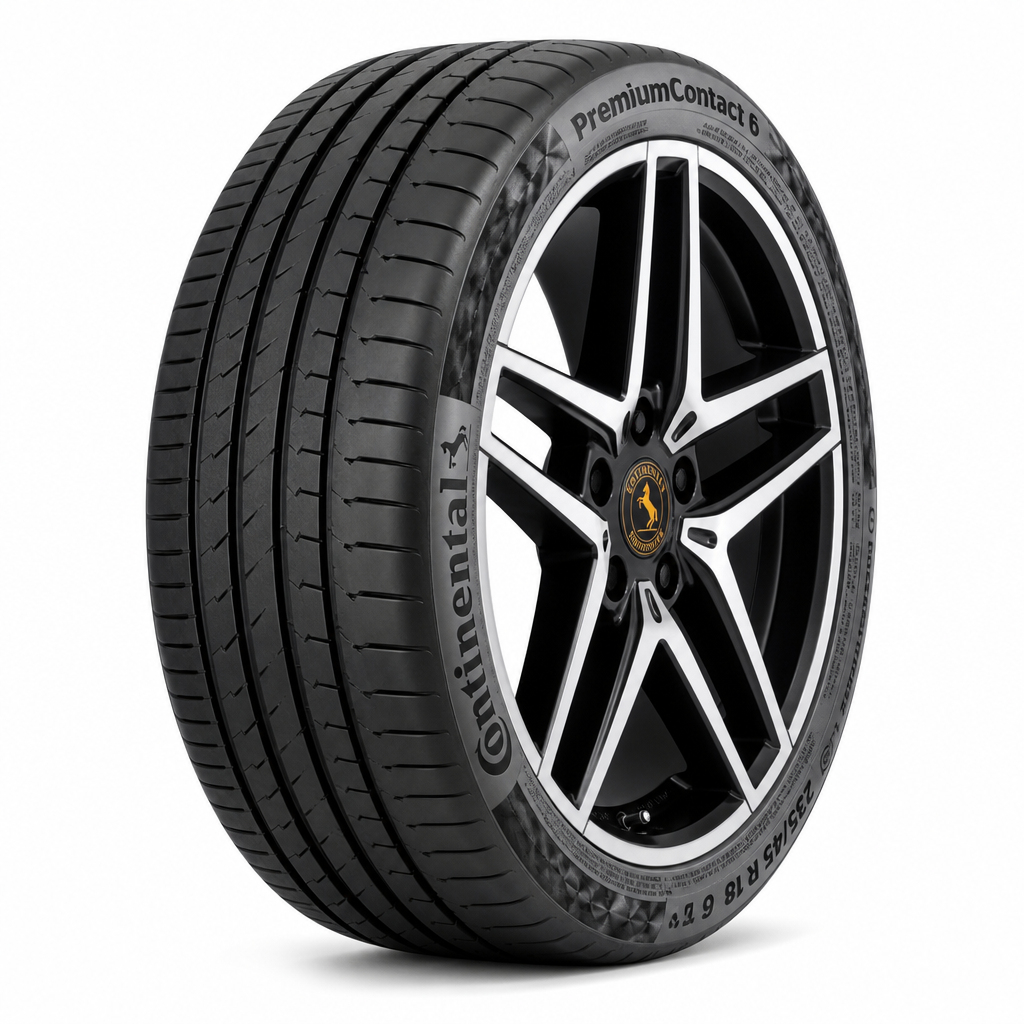
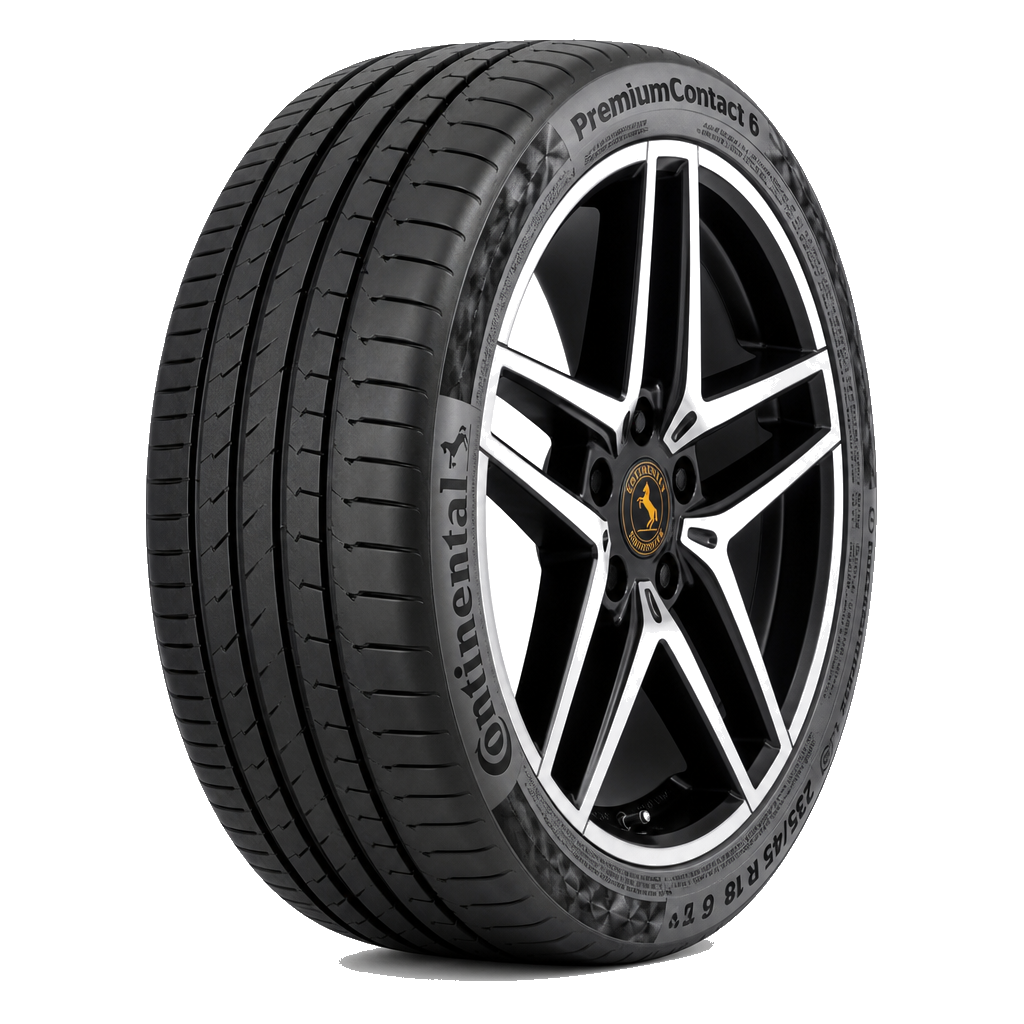
Lastik PNG arka planlarını sil, şeffaf cutout kullan
Beyaz stüdyo arka planı kaldırıldı; 3D sahnede düz şeffaf PNG lastikler kayıyor.

diff --git a/tire3d.js b/tire3d.js
@@ -14,28 +14,20 @@ if (!canvas || window.matchMedia("(prefers-reduced-motion: reduce)").matches) {
   renderer.setClearColor(0x000000, 0);
   renderer.outputColorSpace = THREE.SRGBColorSpace;
   renderer.toneMapping = THREE.ACESFilmicToneMapping;
-  renderer.toneMappingExposure = 1.08;
+  renderer.toneMappingExposure = 1.05;
 
   const scene = new THREE.Scene();
-  scene.fog = new THREE.FogExp2(0x06080f, 0.038);
+  scene.fog = new THREE.FogExp2(0x06080f, 0.034);
 
   const camera = new THREE.PerspectiveCamera(40, 1, 0.1, 80);
-  camera.position.set(0, 1.35, 8.4);
+  camera.position.set(0, 1.5, 8.6);
 
-  scene.add(new THREE.AmbientLight(0xb8c4dc, 0.62));
-  scene.add(new THREE.HemisphereLight(0xd8e4ff, 0x1a1208, 1.1));
+  scene.add(new THREE.AmbientLight(0xc0c8dc, 0.75));
+  scene.add(new THREE.HemisphereLight(0xd8e4ff, 0x1a1208, 0.95));
 
-  const key = new THREE.DirectionalLight(0xffe2b0, 2.15);
-  key.position.set(4, 7, 5);
+  const key = new THREE.DirectionalLight(0xffe2b0, 1.6);
+  key.position.set(3, 6, 4);
   scene.add(key);
-
-  const fill = new THREE.DirectionalLight(0x8eb7ff, 1.05);
-  fill.position.set(-6, 2.5, -1);
-  scene.add(fill);
-
-  const rim = new THREE.PointLight(0xffb020, 1.4, 18);
-  rim.position.set(0, 1.2, 2);
-  scene.add(rim);
 
   const loader = new THREE.TextureLoader();
   const loadTex = (url) =>
@@ -76,57 +68,6 @@ if (!canvas || window.matchMedia("(prefers-reduced-motion: reduce)").matches) {
   resize();
   window.addEventListener("resize", resize);
 
-  function make3DTire(mapTex, scale = 1) {
-    const g = new THREE.Group();
-
-    // rubber body
-    const rubber = new THREE.Mesh(
-      new THREE.TorusGeometry(0.92 * scale, 0.34 * scale, 26, 56),
-      new THREE.MeshStandardMaterial({
-        color: 0x12151c,
-        roughness: 0.48,
-        metalness: 0.22,
-      })
-    );
-    rubber.rotation.y = Math.PI / 2;
-    g.add(rubber);
-
-    // rim disc
-    const rimDisc = new THREE.Mesh(
-      new THREE.CylinderGeometry(0.55 * scale, 0.55 * scale, 0.18 * scale, 40),
-      new THREE.MeshStandardMaterial({
-        color: 0x2a3140,
-        roughness: 0.28,
-        metalness: 0.75,
-      })
-    );
-    rimDisc.rotation.z = Math.PI / 2;
-    g.add(rimDisc);
-
-    // brand tire photo (no text plate) — facing us for brand recognition
-    if (mapTex) {
-      const face = new THREE.Mesh(
-        new THREE.CircleGeometry(0.95 * scale, 48),
-        new THREE.MeshBasicMaterial({
-          map: mapTex,
-          transparent: true,
-          alphaTest: 0.12,
-          side: THREE.DoubleSide,
-          depthWrite: true,
-        })
-      );
-      face.position.z = 0.12 * scale;
-      g.add(face);
-
-      const faceBack = face.clone();
-      faceBack.position.z = -0.12 * scale;
-      faceBack.rotation.y = Math.PI;
-      g.add(faceBack);
-    }
-
-    return g;
-  }
-
   (async function boot() {
     const roadTex = await loadTex("assets/tires/road-asphalt.png");
     if (roadTex) {
@@ -139,82 +80,64 @@ if (!canvas || window.matchMedia("(prefers-reduced-motion: reduce)").matches) {
       map: roadTex || null,
       color: roadTex ? 0xffffff : 0x10141c,
       roughness: 0.42,
-      metalness: 0.45,
+      metalness: 0.4,
     });
     const road = new THREE.Mesh(new THREE.PlaneGeometry(26, 10), roadMat);
     road.rotation.x = -Math.PI / 2;
     road.position.set(0, -1.05, -1.2);
     scene.add(road);
 
-    // lane markers only (no text)
     const dashMat = new THREE.MeshBasicMaterial({
       color: 0xffd36a,
       transparent: true,
-      opacity: 0.45,
+      opacity: 0.4,
     });
     for (let i = -4; i <= 4; i += 1) {
-      const dash = new THREE.Mesh(new THREE.PlaneGeometry(1.1, 0.1), dashMat);
+      const dash = new THREE.Mesh(new THREE.PlaneGeometry(1.1, 0.08), dashMat);
       dash.rotation.x = -Math.PI / 2;
       dash.position.set(i * 2.6, -1.04, -0.3);
       scene.add(dash);
     }
 
-    const edgeMat = new THREE.MeshBasicMaterial({ color: 0xffb020, transparent: true, opacity: 0.55 });
-    [-3.6, 3.6].forEach((z) => {
-      const edge = new THREE.Mesh(new THREE.PlaneGeometry(26, 0.06), edgeMat);
-      edge.rotation.x = -Math.PI / 2;
-      edge.position.set(0, -1.039, z);
-      scene.add(edge);
-    });
-
+    const textures = (await Promise.all(BRANDS.map((f) => loadTex(f)))).filter(Boolean);
     const tires = [];
-    const textures = await Promise.all(BRANDS.map((f) => loadTex(f)));
+    const COUNT = 12;
 
-    // more tires for continuous left/right flow
-    const COUNT = 10;
-    for (let i = 0; i < COUNT; i += 1) {
-      const tex = textures[i % textures.length];
-      const scale = 0.72 + (i % 3) * 0.12;
-      const tire = make3DTire(tex, scale);
+    function spawn(mesh, i, first = false) {
       const fromLeft = i % 2 === 0;
-      const speed = 1.35 + (i % 5) * 0.22;
-      const laneZ = -2.8 + (i % 4) * 1.15;
-      const y = -0.15 + (i % 3) * 0.04;
-
-      tire.position.set(fromLeft ? -11 - i * 1.4 : 11 + i * 1.4, y, laneZ);
-      tire.userData = {
+      const speed = 1.2 + (i % 5) * 0.25;
+      const scale = 1.35 + (i % 3) * 0.2;
+      mesh.scale.setScalar(scale);
+      mesh.position.set(
+        first ? (fromLeft ? -10 - i * 1.2 : 10 + i * 1.2) : fromLeft ? -12 - Math.random() * 2 : 12 + Math.random() * 2,
+        -0.05 + Math.random() * 0.35,
+        -2.6 + Math.random() * 3.2
+      );
+      mesh.rotation.set(0, fromLeft ? 0.35 : -0.35, Math.random() * 0.2 - 0.1);
+      mesh.userData = {
         fromLeft,
         speed: fromLeft ? speed : -speed,
-        spin: (fromLeft ? -1 : 1) * (2.2 + Math.random()),
+        spin: (fromLeft ? -1 : 1) * (1.6 + Math.random()),
         bob: Math.random() * Math.PI * 2,
-        baseY: y,
-        laneZ,
+        baseY: mesh.position.y,
       };
-      scene.add(tire);
-      tires.push(tire);
     }
 
-    // soft dust / spark particles (no text)
-    const dustCount = 180;
-    const dustGeo = new THREE.BufferGeometry();
-    const dustPos = new Float32Array(dustCount * 3);
-    for (let i = 0; i < dustCount; i += 1) {
-      dustPos[i * 3] = (Math.random() - 0.5) * 22;
-      dustPos[i * 3 + 1] = Math.random() * 3.5;
-      dustPos[i * 3 + 2] = (Math.random() - 0.5) * 10;
-    }
-    dustGeo.setAttribute("position", new THREE.BufferAttribute(dustPos, 3));
-    const dust = new THREE.Points(
-      dustGeo,
-      new THREE.PointsMaterial({
-        color: 0xffc56a,
-        size: 0.035,
+    for (let i = 0; i < COUNT; i += 1) {
+      const tex = textures[i % textures.length];
+      const mat = new THREE.MeshBasicMaterial({
+        map: tex,
         transparent: true,
-        opacity: 0.28,
+        alphaTest: 0.15,
         depthWrite: false,
-      })
-    );
-    scene.add(dust);
+        side: THREE.DoubleSide,
+      });
+      // şeffaf PNG lastik — yazı/plaka yok, beyaz kutu yok
+      const mesh = new THREE.Mesh(new THREE.PlaneGeometry(2.1, 2.1), mat);
+      spawn(mesh, i, true);
+      scene.add(mesh);
+      tires.push(mesh);
+    }
 
     const clock = new THREE.Clock();
     let last = performance.now();
@@ -224,42 +147,23 @@ if (!canvas || window.matchMedia("(prefers-reduced-motion: reduce)").matches) {
       const dt = Math.min((now - last) / 1000, 0.033);
       last = now;
 
-      if (roadMat.map) {
-        roadMat.map.offset.x = (t * 0.18) % 1;
-      }
+      if (roadMat.map) roadMat.map.offset.x = (t * 0.16) % 1;
 
-      tires.forEach((tire) => {
+      tires.forEach((tire, i) => {
         const u = tire.userData;
         tire.position.x += u.speed * dt;
-        tire.rotation.z += u.spin * dt;
-        tire.rotation.y = Math.sin(t * 0.4 + u.bob) * 0.18;
-        tire.position.y = u.baseY + Math.sin(t * 1.6 + u.bob) * 0.05;
+        tire.rotation.z += u.spin * dt * 0.55;
+        tire.position.y = u.baseY + Math.sin(t * 1.5 + u.bob) * 0.06;
+        // hafif 3D dönüş
+        tire.rotation.y = (u.fromLeft ? 0.25 : -0.25) + Math.sin(t * 0.5 + u.bob) * 0.12;
 
-        // wrap: left→right / right→left continuous slide
-        if (u.fromLeft && tire.position.x > 12) {
-          tire.position.x = -12 - Math.random() * 3;
-          tire.position.z = -2.8 + Math.random() * 3.4;
-        } else if (!u.fromLeft && tire.position.x < -12) {
-          tire.position.x = 12 + Math.random() * 3;
-          tire.position.z = -2.8 + Math.random() * 3.4;
-        }
+        if (u.fromLeft && tire.position.x > 12.5) spawn(tire, i);
+        else if (!u.fromLeft && tire.position.x < -12.5) spawn(tire, i);
       });
 
-      const dp = dust.geometry.attributes.position.array;
-      for (let i = 0; i < dustCount; i += 1) {
-        dp[i * 3] += Math.sin(t + i) * dt * 0.35;
-        dp[i * 3 + 1] += dt * 0.15;
-        if (dp[i * 3 + 1] > 3.8) {
-          dp[i * 3 + 1] = 0;
-          dp[i * 3] = (Math.random() - 0.5) * 22;
-        }
-      }
-      dust.geometry.attributes.position.needsUpdate = true;
-
-      camera.position.x = mouse.x * 0.55;
-      camera.position.y = 1.35 + mouse.y * -0.2;
-      camera.lookAt(0, 0.15, -0.6);
-      rim.intensity = 1.15 + Math.sin(t * 2.2) * 0.25;
+      camera.position.x = mouse.x * 0.5;
+      camera.position.y = 1.5 + mouse.y * -0.18;
+      camera.lookAt(0, 0.2, -0.5);
 
       renderer.render(scene, camera);
       requestAnimationFrame(frame);

diff --git a/index.html b/index.html
@@ -445,7 +445,7 @@
   </script>
   <script src="https://unpkg.com/leaflet@1.9.4/dist/leaflet.js" integrity="sha256-20nQCchB9co0qIjJZRGuk2/Z9VM+kNiyxNV1lvTlZBo=" crossorigin=""></script>
   <script src="i18n.js?v=wa4"></script>
-  <script type="module" src="tire3d.js?v=slide1"></script>
+  <script type="module" src="tire3d.js?v=cutout1"></script>
   <script src="script.js?v=wa4"></script>
 </body>
 </html>
